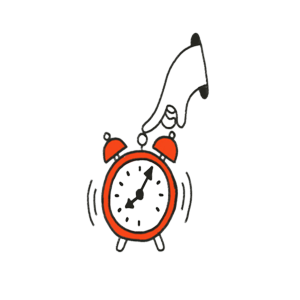
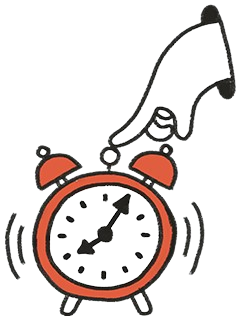
finishing phase1 issues

Changed region(s): [[0.0, 0.0, 0.9835, 1.0], [0.2603, 0.78, 0.2893, 0.84]]

diff --git a/styles.css b/styles.css
@@ -169,9 +169,13 @@ body {
 
 .header {
     display:flex;
-    width: 75%;
-    height: 430px;
+    flex-wrap: wrap-reverse;
+    width: 100%;
+    max-width: 1340px;
+    height: 330px;
     background-color: rgba(244, 242, 242, 0.871);
+    align-items: center;
+    margin: 5px;
     margin-left: auto;
     margin-right: auto;
     margin-top:0px;
@@ -179,39 +183,36 @@ body {
 }
 
 #wel-msg {
-    width:35%;
-    height:200px;
+    padding: 0px 25px 15px 10px;
     background-color: white;
-    margin-top:55px;
-    margin-left:55px;
-    margin-right: 110px;
+    margin-left: 80px;
+    height: 160px;
+    width: 350px;
 }
 
 #wel-msg h5{
     text-align: left;
     padding-top:0px;
     padding-bottom: 0px;
-    font-size: 20px;
+    font-size: 30px;
     margin-bottom:0px;
     margin-top: 25px;
     margin-left: 25px;
 }
 
 #wel-msg p{
-    padding-top:10px;
-    padding-bottom: 0px;
-    font-size: 15px;
-    margin-left: 25px;
+    font-size:20px;
+    margin-left:25px;
 }
 
 #alarm {
-    margin-left:110px;
-    margin-top: 0px;
-    top:35px;
+    margin-left:auto;
+    margin-right: auto;
+    margin-top: 20px;
 }
 
 .courses-selection {
-    width: 70%;
+    width: 85%;
     height: 800px;
     margin-left: auto;
     margin-right: auto;
@@ -244,6 +245,8 @@ body {
 
 .courses {
     width:100%;
+    margin-left: auto;
+    margin-right: auto;
     border: 1px solid #d1d7dc;
     padding: 15px 14px 30px 15px;
     height:100%;
@@ -251,8 +254,8 @@ body {
 
 #course1, #course2,#course3,#course4,#course5{
     display: inline-block;
-    width:250px;
-    margin-right: 3px;
+    width:285px;
+    margin-right: 5px;
     margin-bottom: 0px;
     height:40%;
     text-align: left;
@@ -284,12 +287,12 @@ body {
     text-align: center;
     padding-bottom: 10px;
     margin: 5px;
-    margin-left: 0px;   
+    margin-left: 0px;
 }
 
 
 #course-intro {
-    width: 80%;
+    width: 60%;
 }
 
 .checked {
@@ -314,7 +317,7 @@ body {
     outline: none;
     border:none;
     background-color: white;
-    font: bold 14px arial;
+    font: bold 16px arial;
 }
 
 #excel, #web-development, #java-script, #data-science, #aws, #drawing {
@@ -322,7 +325,7 @@ body {
     background-color: white;
 }
 
-#python, #excel:hover, #web-development:hover, #java-script:hover, #data-science:hover, #aws:hover, #drawing:hover {
+#python:hover, #excel:hover,#web-development:hover, #java-script:hover, #data-science:hover, #aws:hover, #drawing:hover {
     color: black;
     cursor: pointer;
 }

diff --git a/index.html b/index.html
@@ -57,7 +57,9 @@
         
         <div id="wel-msg">
             <h5>New to Udemy? Lucky you.</h5>
-            <p>Courses start at E£169.99. Get your new student offer before it expires.</p>
+            <p>
+                Courses start at E£169.99. Get your new student offer before it expires.
+            </p>
         </div>
         <img src="assets/alarm.png" alt="Alarm Image" id="alarm">
     </div>
@@ -253,7 +255,7 @@
             for(let i=0;i<filteredCourses.length;i++){
                 course = filteredCourses[i];
                 const div = document.createElement("div");
-                div.style.cssText = "display: inline-block;width: 250px; margin-right: 3px; margin-bottom: 0px; height:40%; text-align: left";
+                div.style.cssText = "display: inline-block;width: 250px; margin-right: 5px; margin-bottom: 0px; height:40%; text-align: left";
                 const courseImage = document.createElement("img");
                 courseImage.src = course.image;
                 courseImage.alt = "Course Image";
